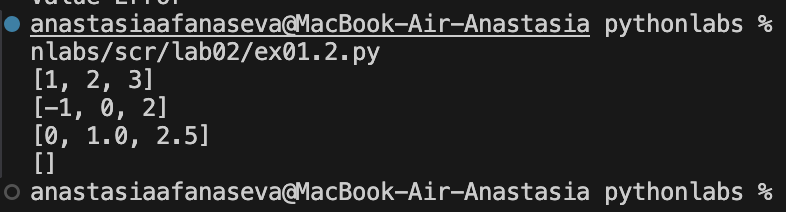
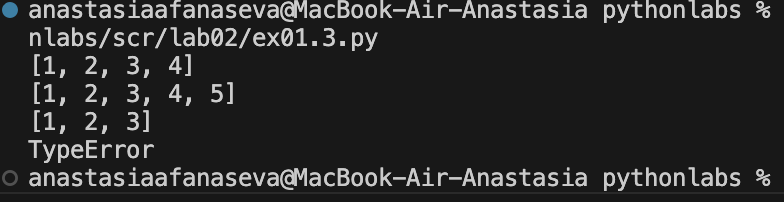
fix

Changed region(s): [[0.0, 0.0, 1.0, 0.9802]]

diff --git a/scr/lab02/ex01.3.py b/scr/lab02/ex01.3.py
@@ -4,7 +4,7 @@ def flatten(mat: list[list | tuple]):
         if isinstance(row, (list, tuple)):
             flattened_list.extend(row)
         else:
-            return ('TypeError')
+            raise TypeError ('TypeError')
     return (flattened_list)
 print(flatten([[1, 2], [3, 4]]))
 print(flatten([[1, 2], (3, 4, 5)]))

diff --git a/scr/lab02/ex02.3.py b/scr/lab02/ex02.3.py
@@ -4,7 +4,7 @@ def col_sums(mat: list[list[float | int]]):
     len_s = len(mat[0])
     for i in mat:
         if len(i)!= len_s:
-            return "ValueError"
+            raise TypeError ("ValueError")
     R = []
     for i in range (len(mat[0])):
         sum_s = 0

diff --git a/scr/lab02/ex02.1.py b/scr/lab02/ex02.1.py
@@ -4,7 +4,7 @@ def transpose(mat: list[list[float | int]]):
     len_s = len(mat[0])
     for i in mat:
         if len(i) != len_s:
-            return "ValueError"
+            raise TypeError ("ValueError")
     R = []
     for i in range(len(mat[0])):
         N = []

diff --git a/scr/lab02/ex02.2.py b/scr/lab02/ex02.2.py
@@ -4,7 +4,7 @@ def row_sums(mat: list[list[float | int]]):
     len_s = len(mat[0])
     for i in mat:
         if len(i)!=len_s:
-            return "ValueError"
+            raise TypeError ("ValueError")
     R = []
     for i in mat:
         R.append(sum(i))

diff --git a/scr/lab02/ex01.1.py b/scr/lab02/ex01.1.py
@@ -1,6 +1,6 @@
 def min_max(nums: list[float | int]):
     if not nums:
-        return ('Value Error')
+        raise TypeError ('Value Error')
     else:
         return min(nums), max(nums)
 print(min_max([3, -1, 5, 5, 0]))
